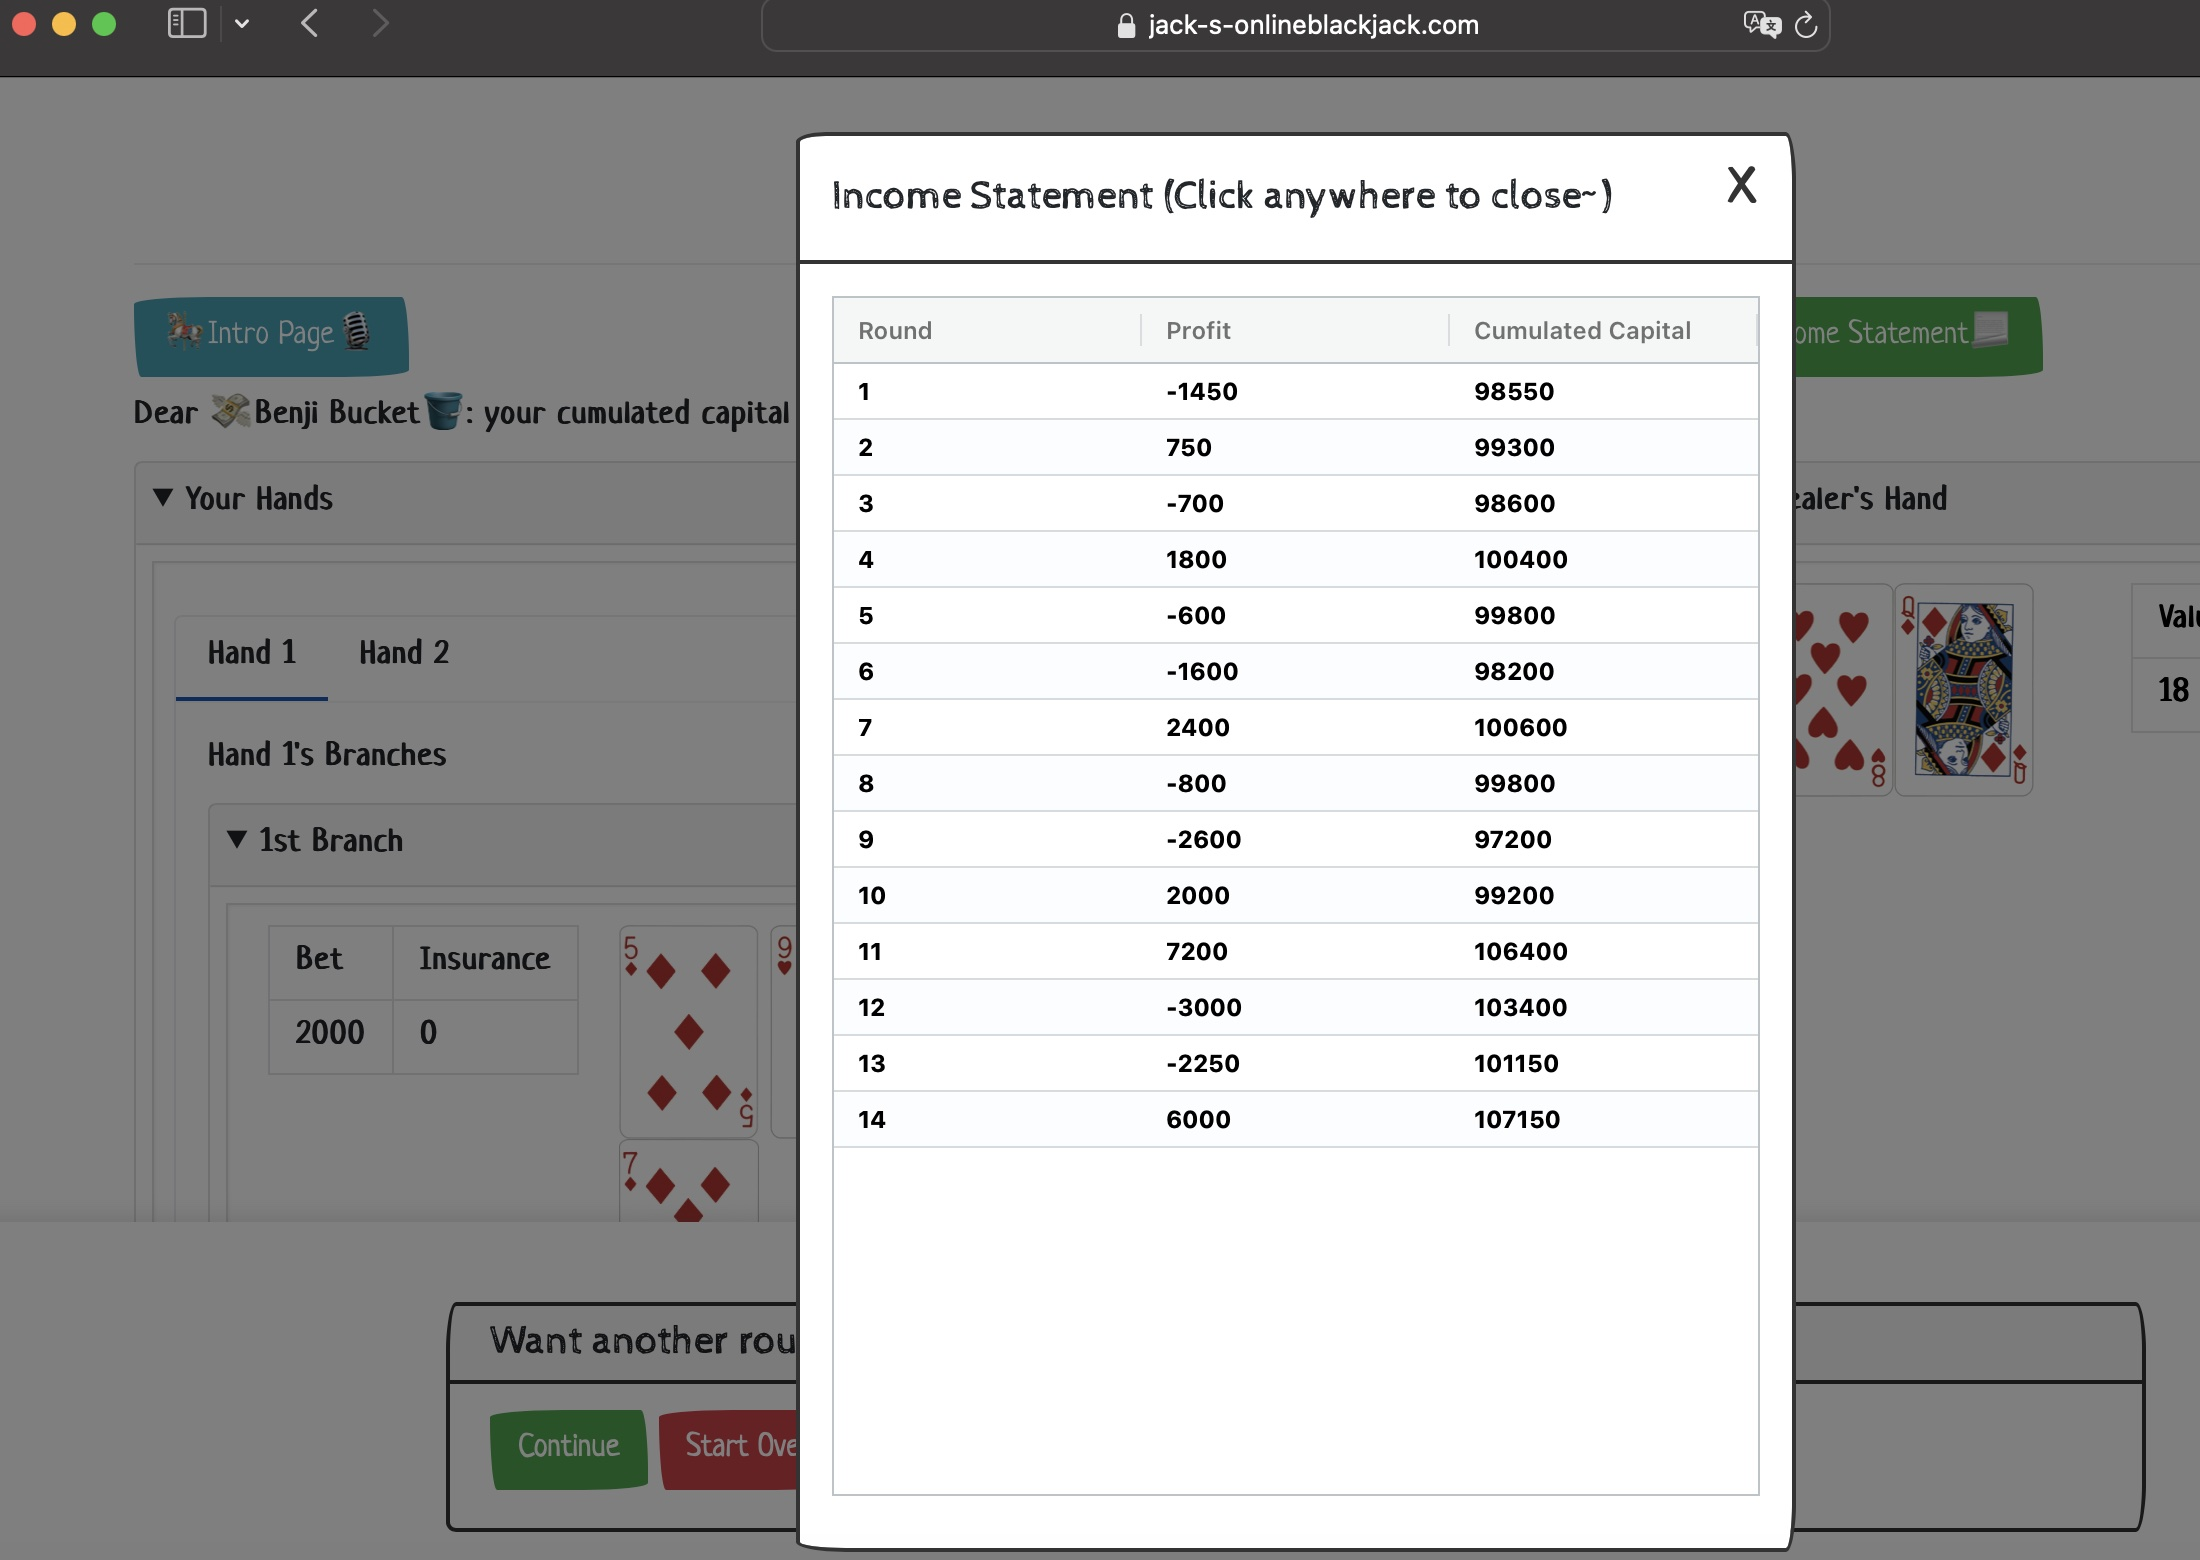
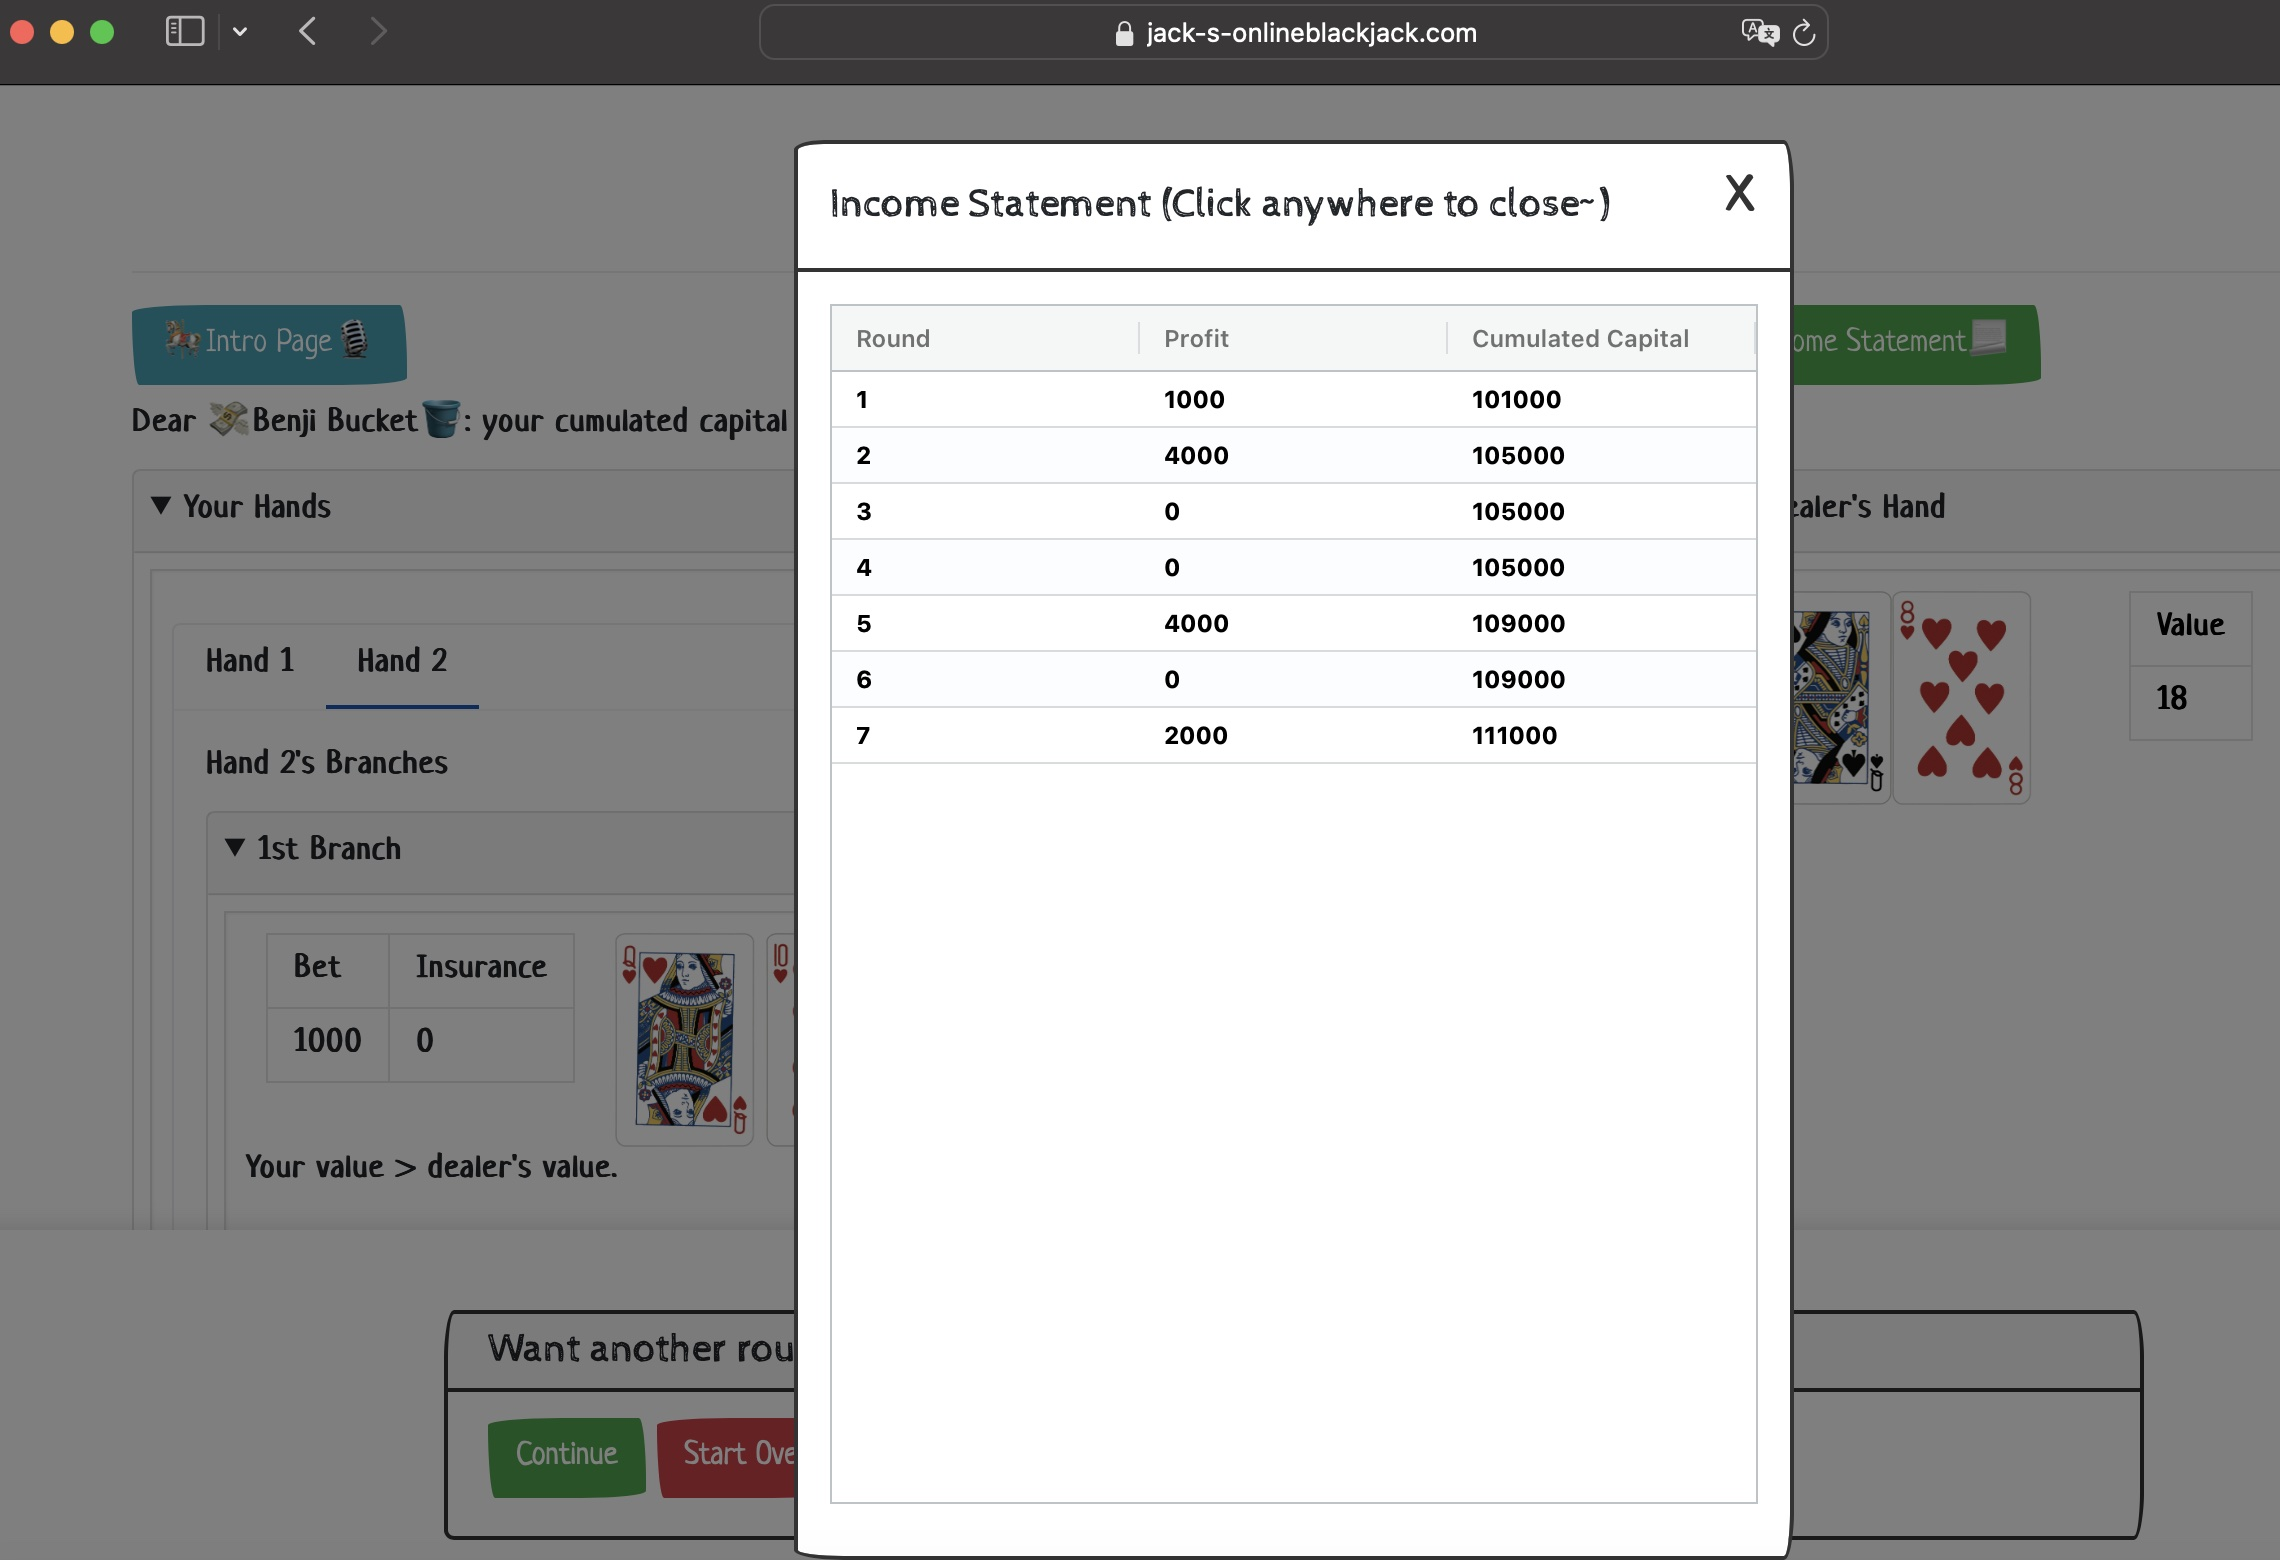
Updated demo.

diff --git a/README.md b/README.md
@@ -51,8 +51,7 @@ Now you know where I am from 🤭
 
 (3) Income Statement: 💸 income flow is well recorded like a bank 🏦
 ![Income Flow](Demos/Income-Flow.jpg)
-
-The rest is, as said before, all about using keyboard ,mouse and scroll to proceed.
+(Still unbelievable non-losing flow……🤣)
 
 ### 🎉 Winner Winner Chicken Dinner 🦃
 Congratulate whoever wins big in a single round 🤑
